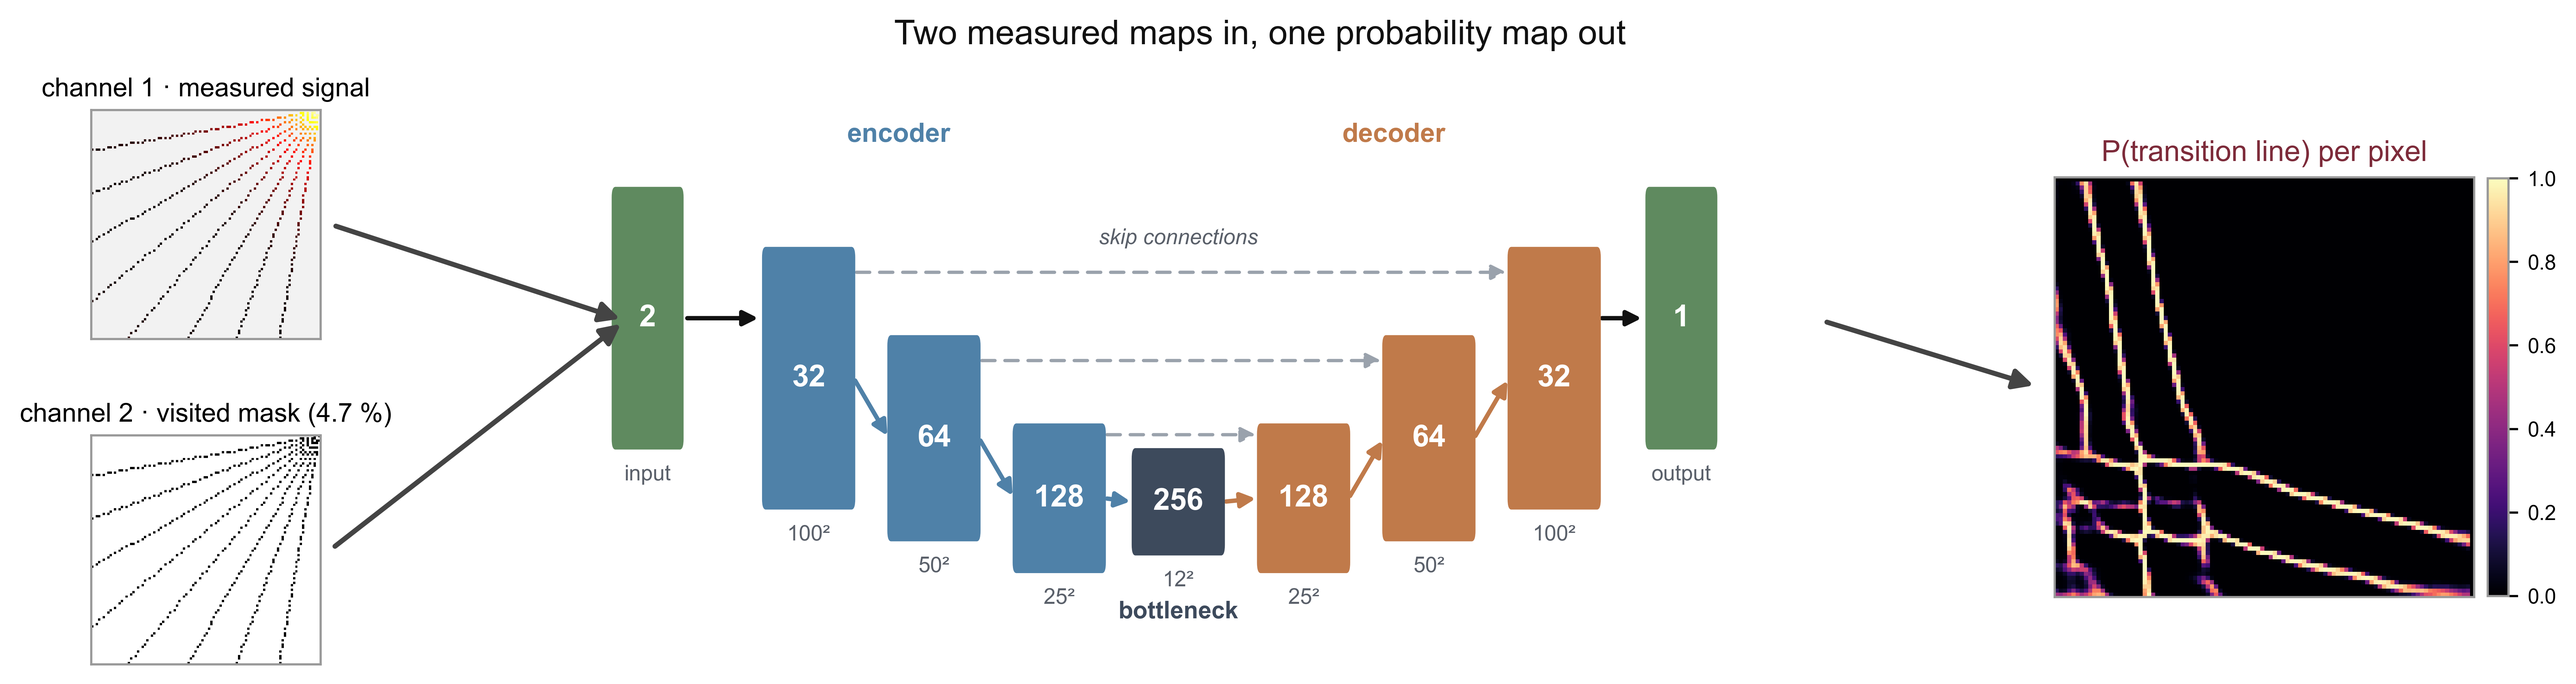
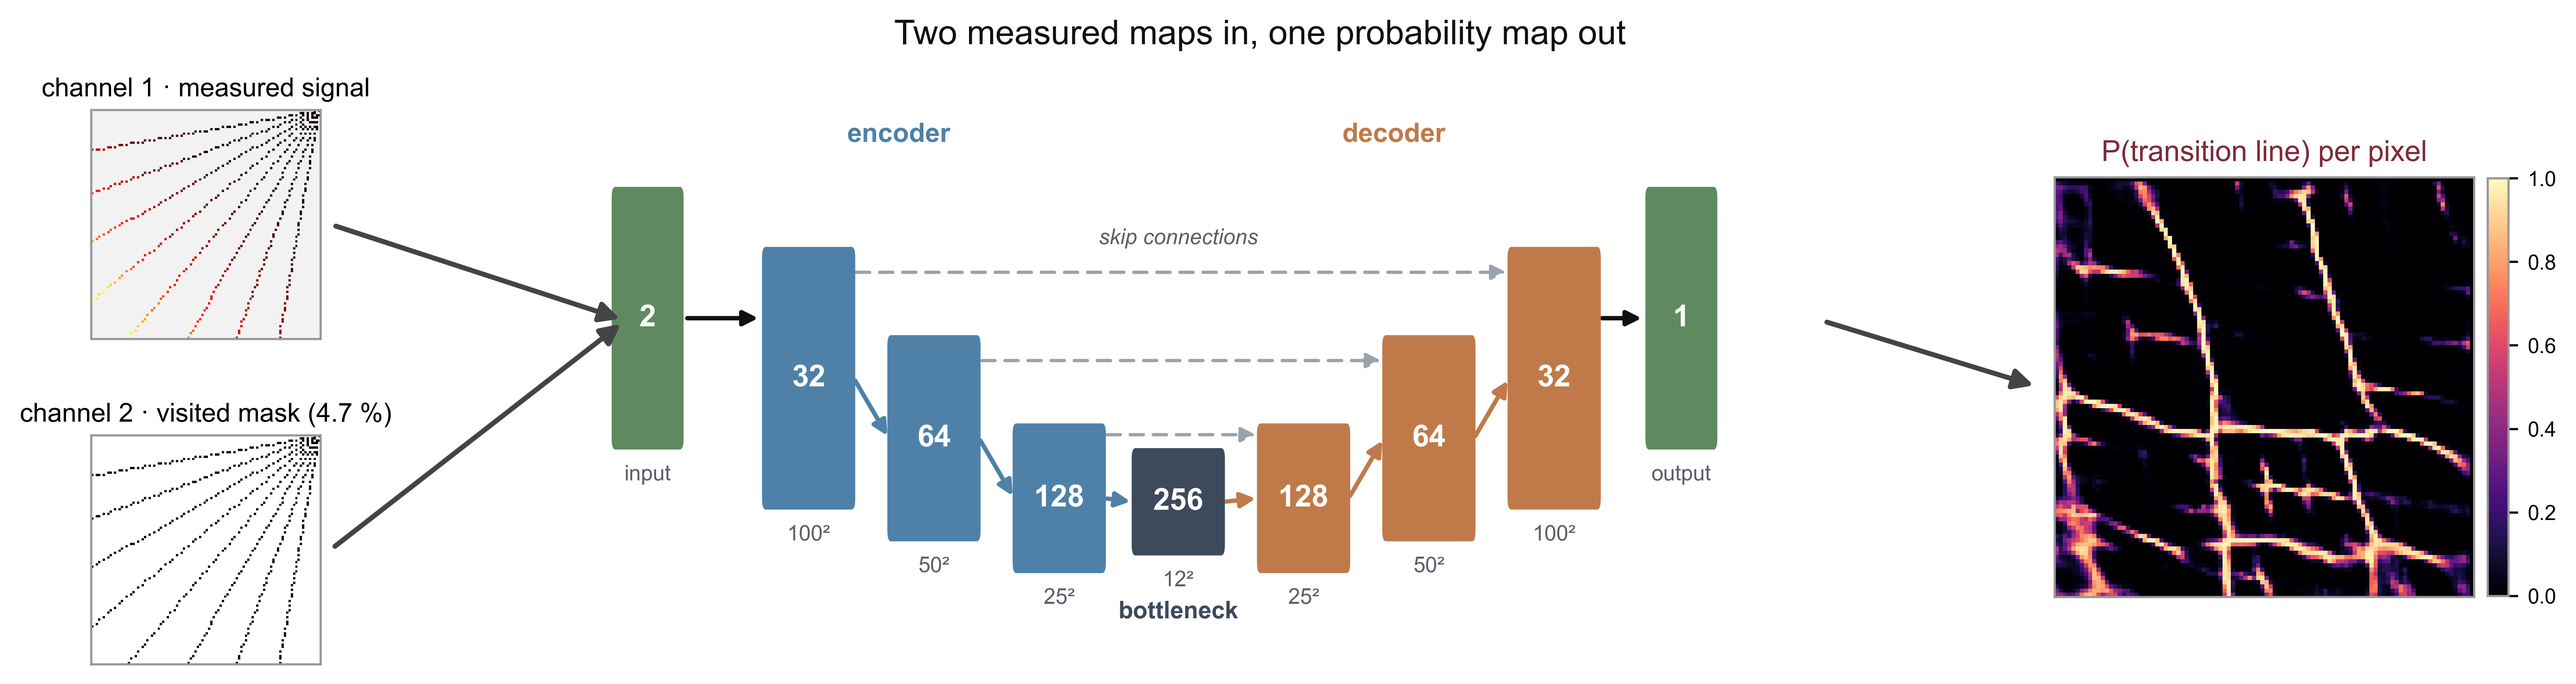
added some

Changed region(s): [[0.7783, 0.247, 0.9652, 0.8953], [0.0934, 0.1544, 0.1245, 0.247], [0.934, 0.2779, 0.9652, 0.3087]]

diff --git a/paper_figures/make_figures.py b/paper_figures/make_figures.py
@@ -21,17 +21,23 @@ from matplotlib.patches import FancyBboxPatch, FancyArrowPatch
 
 sys.path.insert(0, os.path.join(os.path.dirname(os.path.abspath(__file__)),
                                 "..", "src"))
-from dqd.ml import ray_peaks                                   # noqa: E402
+from dqd.ml import ray_peaks, grid_train                       # noqa: E402
 
 HERE = os.path.dirname(os.path.abspath(__file__))
 ROOT = os.path.abspath(os.path.join(HERE, ".."))
 POOL = os.path.join(ROOT, "training_data", "_device_pools",
                     "devices_n550_res100_c1df7b6bf")
 
-# The device used for the INPUT / MASK explanation.  pool sample_1 is a
-# TRAINING device (device_id 0) — fine here, because this figure only shows
-# what a measurement looks like and makes no accuracy claim.
-DEVICE = os.path.join(POOL, "sample_1")
+# Every figure in the deck shows ONE device: #33 from the charge-sensor
+# gallery, simulated in its 0.8 mV window.  It is a freshly generated device
+# — not in the 550-device pool at all — so the network has never seen it.
+# NOTE: the network was trained on 2 mV windows.  At 0.8 mV the honeycomb is
+# coarser than anything it was fitted on, so the reconstruction here scores
+# below the test-set mean.  See picked_device_33/scores.csv.
+PICK = os.path.join(ROOT, "results",
+                    "4-5-6-7-8_rays_40-50-60_points_500_samples",
+                    "picked_device_33", "device_0.8mV")
+DEVICE = PICK
 N_RAYS, N_POINTS = 8, 60
 
 INK = "#111111"
@@ -221,6 +227,16 @@ LADDER = (0.2, 0.4, 0.6, 0.9)
 RESULT_DEVICE = 1
 
 
+def pick_case(net, n_rays=8, n_points=60):
+    """(channels, truth, probability) for the picked device."""
+    m = ray_peaks.measure(PICK, n_rays, n_points)
+    ux, uy, Z = ray_peaks.load_grid(PICK)
+    ch = ray_peaks.to_channels(m, Z.shape)
+    truth = ray_peaks.load_ground_truth(PICK)
+    prob = grid_train.predict(net, ch[None, :ray_peaks.NET_CHANNELS])[0]
+    return ch, truth, prob
+
+
 def _validation_curve(net, cfg_dir):
     """
     Re-derive the exact validation split the training used and score every
@@ -250,14 +266,13 @@ def fig_probability_to_lines(device_index=RESULT_DEVICE, ladder=LADDER):
     from scipy.ndimage import distance_transform_edt
 
     cfg_dir = os.path.join(RUN_DIR, CONFIG)
-    X, Y, names = load_split(os.path.join(cfg_dir, "test.npz"))
     net, ck = grid_train.load(os.path.join(cfg_dir, "model", "unet.pt"))
     thr = float(ck["threshold"])
-    i = device_index
-    p = grid_train.predict(net, X[i:i + 1])[0]
-    truth = Y[i] > 0.5
-    print(f"  figures/test/sample_{i + 1} = {os.path.basename(names[i])}   "
-          f"threshold {thr:g}")
+    ch, Yt, p = pick_case(net)
+    Y = {0: Yt}                      # keep the indexing below unchanged
+    i = 0
+    truth = Yt > 0.5
+    print(f"  picked device #33 (0.8 mV window)   threshold {thr:g}")
 
     cand, vf1, n_val = _validation_curve(net, cfg_dir)
     best = cand[int(np.argmax(vf1))]
@@ -335,7 +350,7 @@ def fig_probability_to_lines(device_index=RESULT_DEVICE, ladder=LADDER):
                 sp.set_color("#c0392b"); sp.set_linewidth(2.4)
 
     fig.text(0.5, 0.435, "the same probability map, cut at four thresholds "
-                         "on a HELD-OUT device", ha="center", fontsize=10,
+                         "on an unseen device (0.8 mV window)", ha="center", fontsize=10,
              color=MUT)
     fig.text(0.5, 0.012,
              "green = line found within 1 px      "
@@ -355,11 +370,9 @@ def fig_model_flow(device_index=RESULT_DEVICE):
     from dqd.study.dataset import load_split
 
     cfg_dir = os.path.join(RUN_DIR, CONFIG)
-    X, Y, names = load_split(os.path.join(cfg_dir, "test.npz"))
     net, ck = grid_train.load(os.path.join(cfg_dir, "model", "unet.pt"))
-    i = device_index
-    p = grid_train.predict(net, X[i:i + 1])[0]
-    sig, vis = X[i][0], X[i][1]
+    ch, _, p = pick_case(net)
+    sig, vis = ch[ray_peaks.CH_SIGNAL], ch[ray_peaks.CH_VISITED]
 
     fig = plt.figure(figsize=(13.0, 3.5))
     gs = fig.add_gridspec(2, 3, width_ratios=[1.0, 3.45, 1.25],
@@ -425,11 +438,9 @@ def fig_panels(device_index=RESULT_DEVICE):
     from dqd.study.dataset import load_split
 
     cfg_dir = os.path.join(RUN_DIR, CONFIG)
-    X, Y, names = load_split(os.path.join(cfg_dir, "test.npz"))
     net, ck = grid_train.load(os.path.join(cfg_dir, "model", "unet.pt"))
-    i = device_index
-    prob = grid_train.predict(net, X[i:i + 1])[0]
-    sig, vis = X[i][0], X[i][1]
+    ch, _, prob = pick_case(net)
+    sig, vis = ch[ray_peaks.CH_SIGNAL], ch[ray_peaks.CH_VISITED]
 
     def panel(draw, title, name, colour=INK, cbar=None):
         fig, ax = plt.subplots(figsize=(2.7, 2.95))
@@ -503,6 +514,54 @@ def fig_charge_sensor(device=None):
     save(fig, "panel_charge_sensor")
 
 
+# ── figure 7: the measurement story for the picked device ────────────────
+def fig_measurement_panel(n_rays=8, n_points=60):
+    """charge sensor | ground truth | rays and peaks | what the net is shown"""
+    ux, uy, Z = ray_peaks.load_grid(PICK)
+    m = ray_peaks.measure(PICK, n_rays, n_points)
+    ch = ray_peaks.to_channels(m, Z.shape)
+    truth = ray_peaks.load_ground_truth(PICK) > 0.5
+    ext = [ux.min(), ux.max(), uy.min(), uy.max()]
+    sx = (ux.max() - ux.min()) / (len(ux) - 1)
+    sy = (uy.max() - uy.min()) / (len(uy) - 1)
+
+    fig, axes = plt.subplots(1, 4, figsize=(14.0, 3.6))
+
+    axes[0].imshow(Z, origin="lower", cmap="hot", extent=ext, aspect="auto",
+                   interpolation="nearest")
+    axes[0].set_title("charge sensor", fontsize=11)
+
+    axes[1].imshow(1 - truth, origin="lower", cmap="gray", extent=ext,
+                   aspect="auto", interpolation="nearest")
+    axes[1].set_title("stability diagram\n(ground truth)", fontsize=11)
+
+    axes[2].imshow(1 - truth, origin="lower", cmap="gray", extent=ext,
+                   aspect="auto", interpolation="nearest")
+    vy, vx = np.nonzero(ch[ray_peaks.CH_VISITED] > 0.5)
+    py, px = np.nonzero(ch[ray_peaks.CH_PEAKS] > 0.5)
+    axes[2].plot(ux.min() + vx * sx, uy.min() + vy * sy, ".", ms=2.2,
+                 color="#2b5fd9", alpha=0.9, label="measured points")
+    axes[2].plot(ux.min() + px * sx, uy.min() + py * sy, "x", ms=5, mew=1.1,
+                 color="#c0392b", label="detected transitions")
+    axes[2].legend(frameon=False, fontsize=8, loc="upper right")
+    axes[2].set_title(f"{n_rays} rays × {n_points} points", fontsize=11)
+
+    cm = plt.get_cmap("hot").copy(); cm.set_bad("#f2f2f2")
+    vis = ch[ray_peaks.CH_VISITED]
+    axes[3].imshow(np.where(vis > 0.5, ch[ray_peaks.CH_SIGNAL], np.nan),
+                   origin="lower", cmap=cm, vmin=0, vmax=1, extent=ext,
+                   aspect="auto", interpolation="nearest")
+    axes[3].set_title(f"what the network is shown\n{100 * vis.mean():.1f} % "
+                      f"of the grid", fontsize=11)
+
+    for ax in axes:
+        ax.set_xticks([]); ax.set_yticks([])
+        for sp in ax.spines.values():
+            sp.set_color("#999999")
+    fig.tight_layout()
+    save(fig, "fig_measurement_panel")
+
+
 if __name__ == "__main__":
     print("figures ->", HERE)
     fig_network_input()
@@ -512,3 +571,4 @@ if __name__ == "__main__":
     fig_model_flow()
     fig_panels()
     fig_charge_sensor()
+    fig_measurement_panel()
